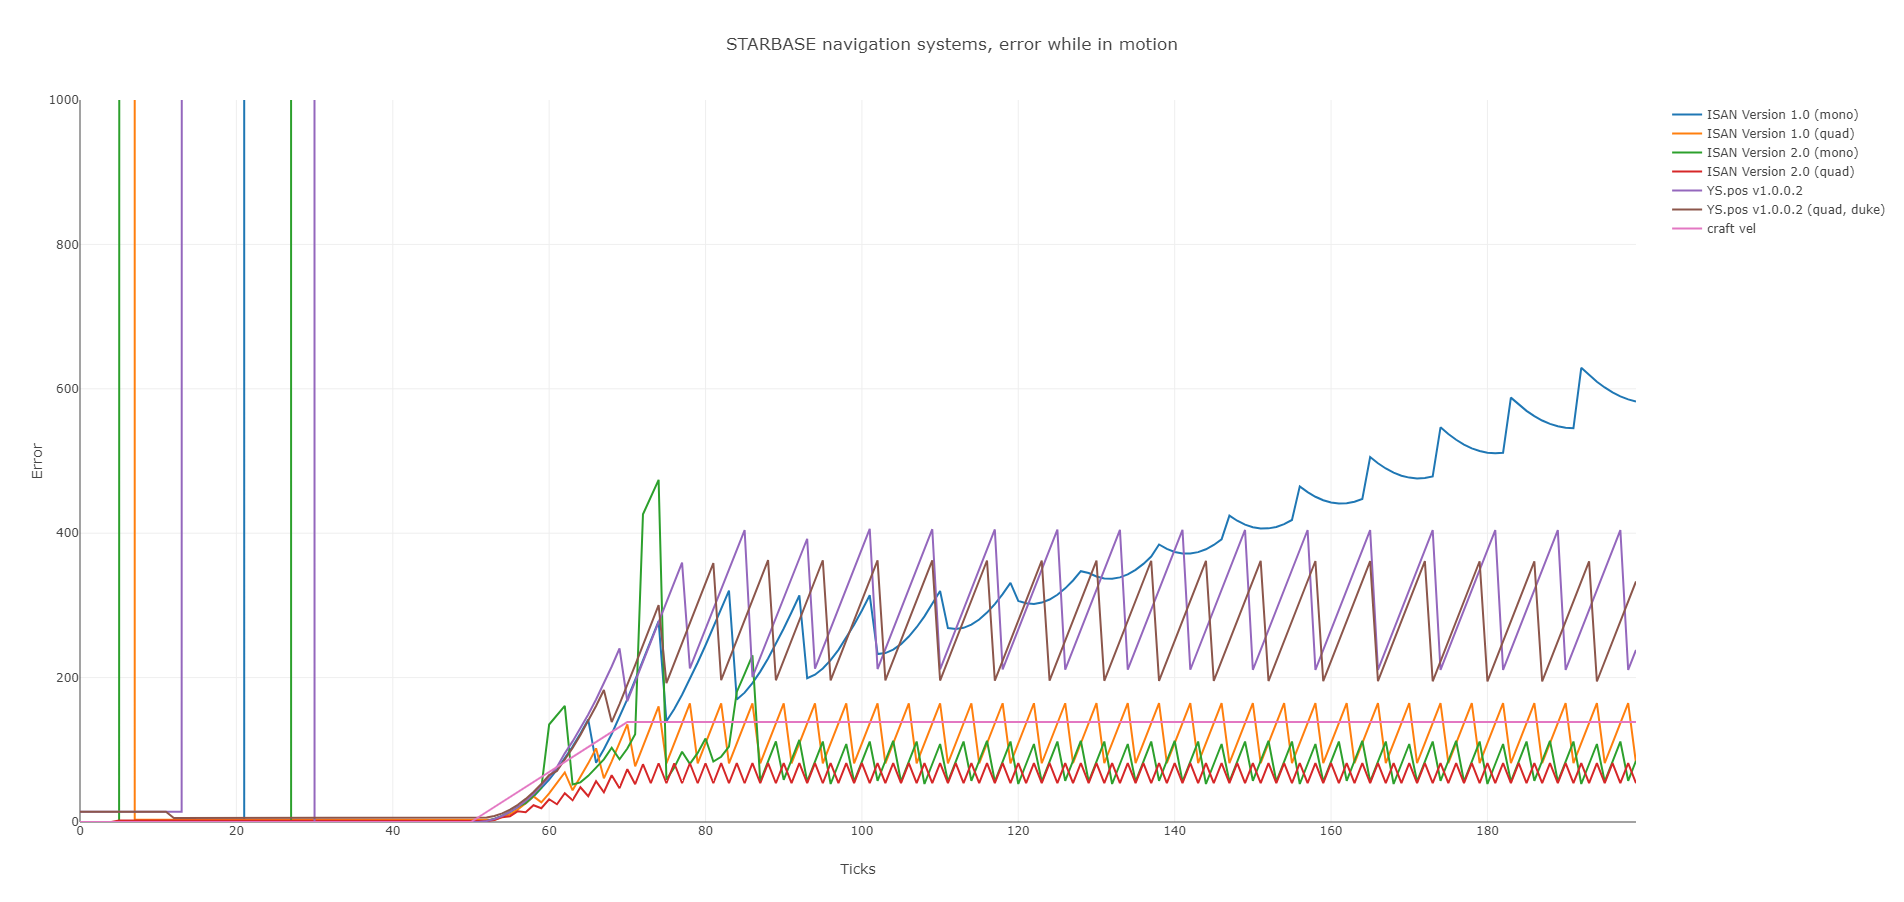
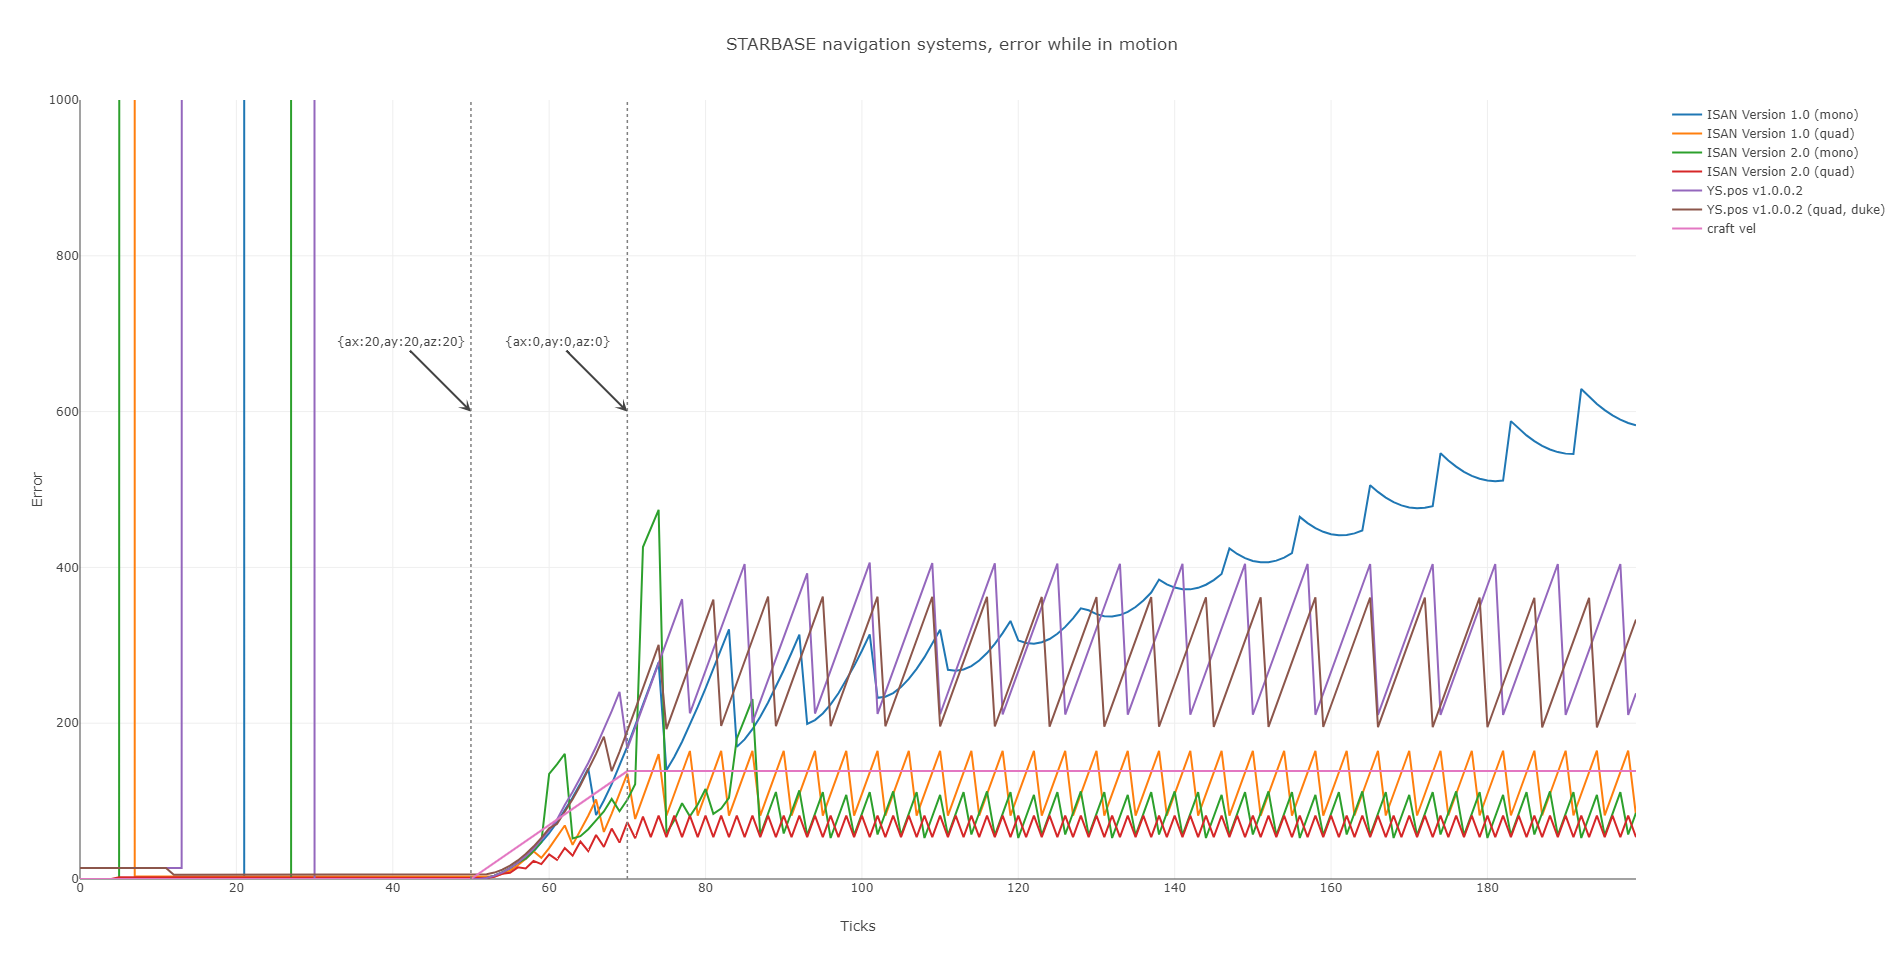
Simulation tool adds labels on craft updates

diff --git a/Tools/Simulation/web_public/js/plot.js b/Tools/Simulation/web_public/js/plot.js
@@ -34,8 +34,44 @@ window.addEventListener('load',()=>{
         var layout = {
             title:"STARBASE navigation systems, error while in motion",
             xaxis:{title:"Ticks"},
-            yaxis:{title:"Error",range:[0,1000]}
+            yaxis:{title:"Error",range:[0,1000]},
+            shapes: [],
+            annotations:[]
         };
+
+        console.log(data.craftInfo);
+
+        data.craftInfo.states.forEach((craft,i)=>{
+            if(i==0) return;
+            layout.shapes.push({
+                type: 'line',
+                x0: data.craftInfo.updates[i],
+                y0: 0,
+                x1: data.craftInfo.updates[i],
+                yref: 'paper',
+                y1: 1,
+                line: {
+                  color: 'grey',
+                  width: 1.5,
+                  dash: 'dot'
+                },
+              });
+            layout.annotations.push(
+                {
+                    x: data.craftInfo.updates[i],
+                    y: 600,
+                    xref: 'x',
+                    yref: 'y',
+                    text: JSON.stringify(craft).replaceAll('"',''),
+                    showarrow: true,
+                    arrowhead: 3,
+                    ax: -70,
+                    ay: -70
+                }
+            );
+        });
+
+        console.log(layout.annotations);
 
         Plotly.newPlot('chart', traces, layout,{editable: false});
     });

diff --git a/Tools/Simulation/server.js b/Tools/Simulation/server.js
@@ -149,7 +149,7 @@ for(var tick=0; tick<totalTicks; tick++){
 
 //write sim data to file in web_public
 console.log("Simulation complete, writing data to public file");
-fs.writeFileSync(`${__dirname}\\web_public\\simdata.json`,JSON.stringify({simsInfo,simdata}));
+fs.writeFileSync(`${__dirname}\\web_public\\simdata.json`,JSON.stringify({simsInfo,simdata, craftInfo:{states:craft, updates:switchAt}}));
 
 //Launch simple express server to serve web files in web_public
 var express = require('express');
